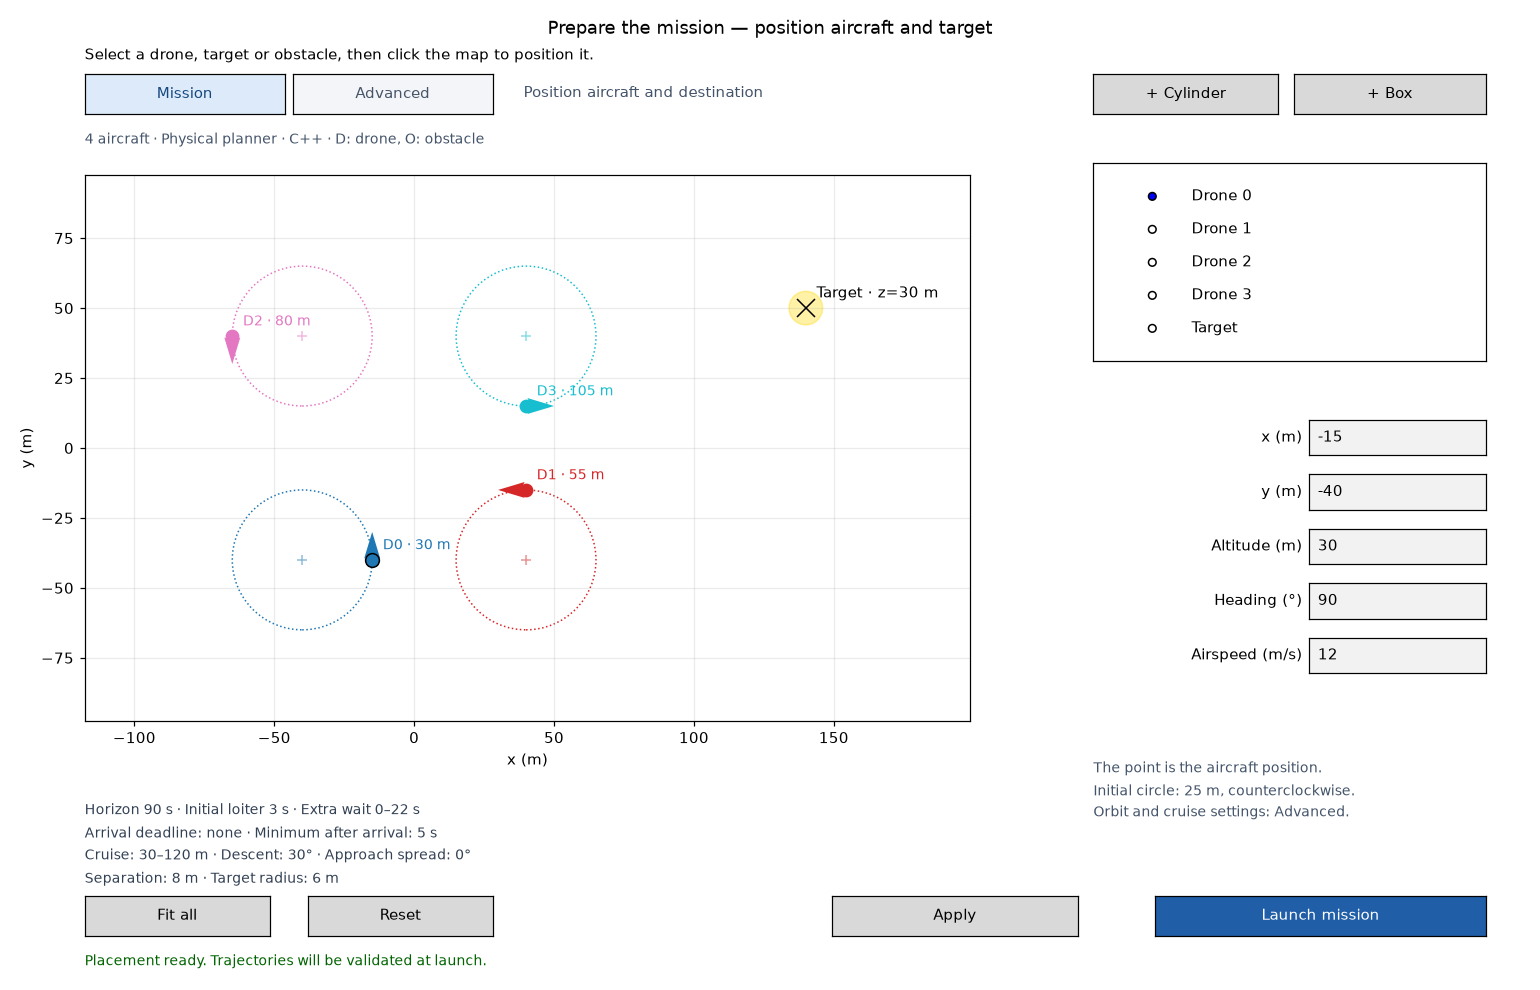
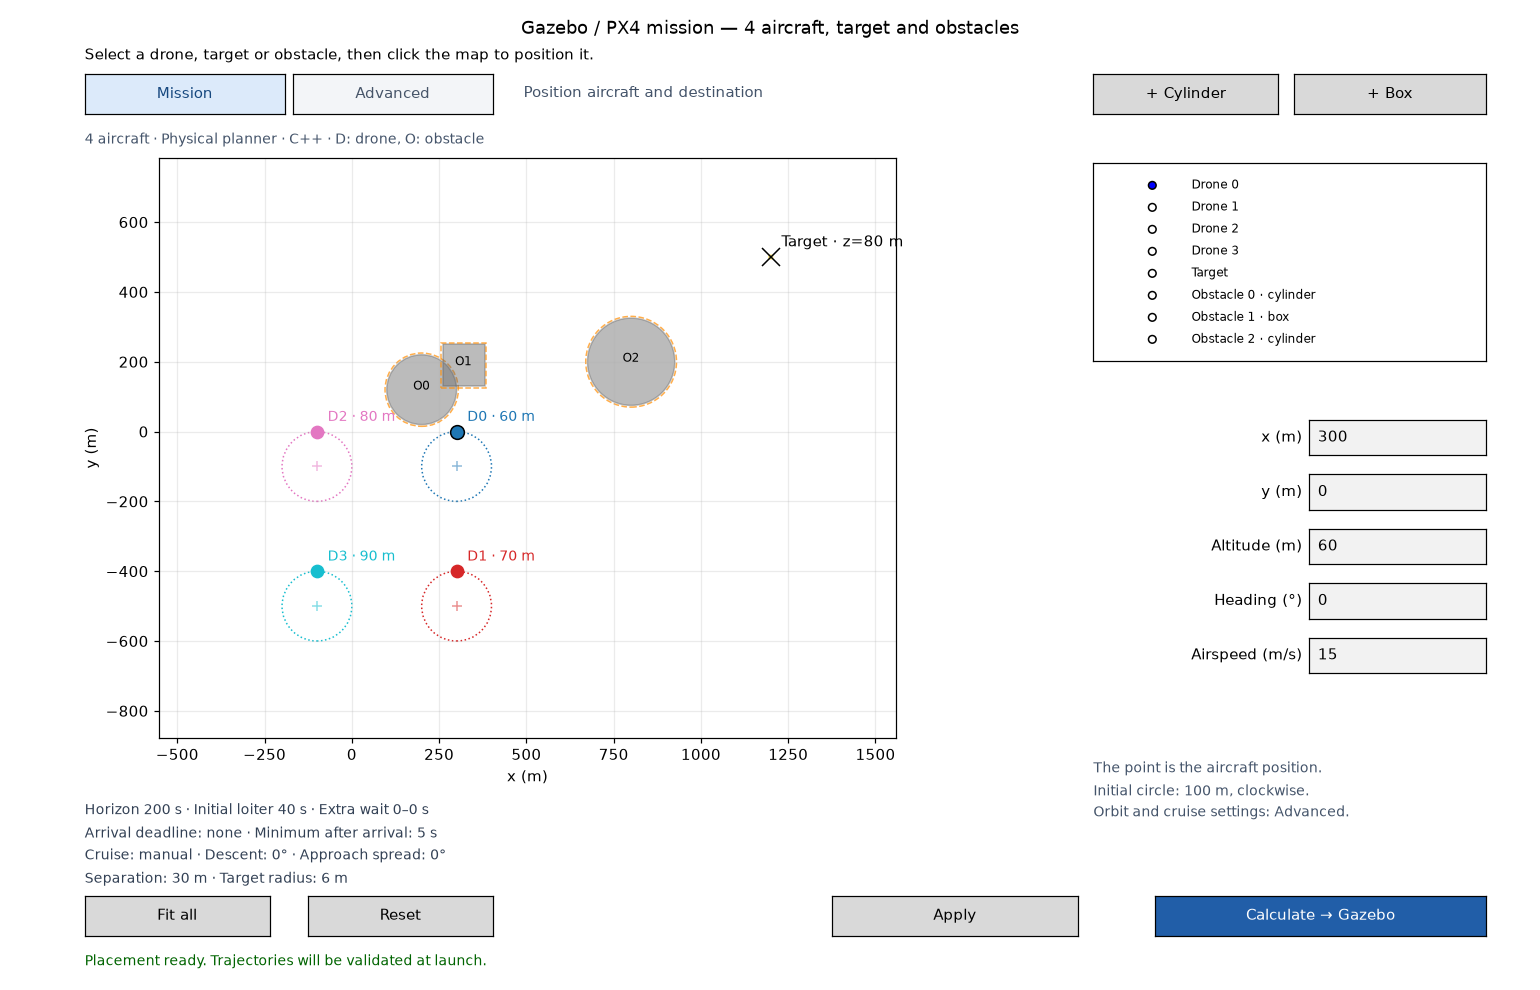
Use a native Gazebo screenshot in the project README
Replace the point-mass plot with an unmodified screenshot from a successful four-aircraft PX4/Gazebo run. Show the current Gazebo mission editor with matching aircraft, target and obstacle layout, and document image provenance.

diff --git a/docs/images/README.md b/docs/images/README.md
@@ -1,22 +1,23 @@
 # README illustrations
 
-These curated documentation images depict the same four-aircraft mission.
-They are committed so the repository README does not depend on ignored run
-artifacts or external video hosting.
+These committed assets show the four-aircraft PX4/Gazebo workflow. The images
+remain available independently of ignored run artifacts or external video hosting.
 
-- `planner.png`: the current `ScenarioEditor` Mission view, rendered with the
-  saved initial snapshots and configuration.
-- `simulation-3d.png`: a Matplotlib 3D still from the saved point-mass execution
-  telemetry at 30 s. Solid paths are executed prefixes; dashed paths are nominal
-  references through the latest arrival plus six seconds. All four aircraft
-  markers use recorded positions. The altitude scale is exaggerated for clarity.
+- `gazebo.png` is an unmodified native Gazebo screenshot, including its rendered
+  ground, obstacles and colored spatial-reference visuals. Source:
+  `results/px4-gazebo-fleet/20261028-140507-860464/2026-10-28T13:06:06.244330951.png`.
+  That archived four-aircraft SITL run completed its experiment gates and landing
+  checks. Its reference used the historical geometric/Python generator; the
+  screenshot is an illustration, not a new C++ flight qualification. Mission
[1 lines of base64/hex data omitted]
+- `planner.png` is the current Gazebo preparation editor in Mission view,
+  rendered directly through `edit_scenario(..., profile_loading=False)` with
+  `examples/scenarios/px4_four_loiter_cpp.json`. It shows the current physical/C++
+  selection and the same illustrated fleet layout, target and three obstacles.
+  The reference paths generated by the two planner versions are not asserted
+  to be identical.
 
-Source run: `results/cpp-default-20261030/default-cli/`, generated by
-`examples/trajectory_3d.py --no-gui` with the default four-aircraft physical/C++
-configuration. Planning and execution are recorded as validated. Original
[1 lines of base64/hex data omitted]
-
-The editor is rendered from its actual Python widgets; the simulation image is
-rendered from exported trajectories and telemetry. These are not PX4/Gazebo
-screenshots or evidence of real-aircraft flight. Full-horizon validation and
-saved mission data are unchanged by the illustrated display interval.
+The native screenshot is not a Matplotlib flight plot or an AI-generated image.
+The colored Gazebo visuals are planned spatial references, not measured flight
+trails. Native PX4 execution does not inherit the point-mass planner's timing
+or separation claims; no real-aircraft flight is depicted.

diff --git a/README.md b/README.md
@@ -6,10 +6,10 @@ Coordinated 3D trajectory planning for fixed-wing UAV swarms.
 ![3D planning](https://img.shields.io/badge/Planning-3D-0f766e)
 ![PX4 / Gazebo SITL](https://img.shields.io/badge/PX4%20%2F%20Gazebo-SITL-7c3aed)
 
-![Four aircraft and their planned and executed 3D trajectories](docs/images/simulation-3d.png)
+![Four-aircraft PX4/Gazebo scene with planned spatial references and static obstacles](docs/images/gazebo.png)
 
-*Four-aircraft point-mass simulation. Solid lines show executed paths; dashed
-lines show planned paths. Aircraft markers show the state at 30 s.*
+*Native PX4/Gazebo SITL overview of a four-aircraft scenario. Colored lines
+show planned spatial references; grey solids are simulated obstacles.*
 
 ## Overview
 
@@ -34,10 +34,10 @@ planner, with a separate adapter for PX4/Gazebo SITL experiments.
 - **PX4 / Gazebo SITL** — isolated single-aircraft and four-aircraft experiments
   with native autopilots and aerodynamic simulation.
 
-![SwarmTraj mission editor showing four aircraft and a shared target](docs/images/planner.png)
+![Gazebo mission preparation showing four aircraft, a shared target and three obstacles](docs/images/planner.png)
 
-*Prepare the same mission in the Python editor. Mission view shows essential
-inputs; Advanced groups detailed settings while preserving configured constraints.*
+*Prepare the four-aircraft example in the Python editor. Mission view shows
+essential inputs; Advanced groups detailed settings while preserving constraints.*
 
 ## Quick start
 
